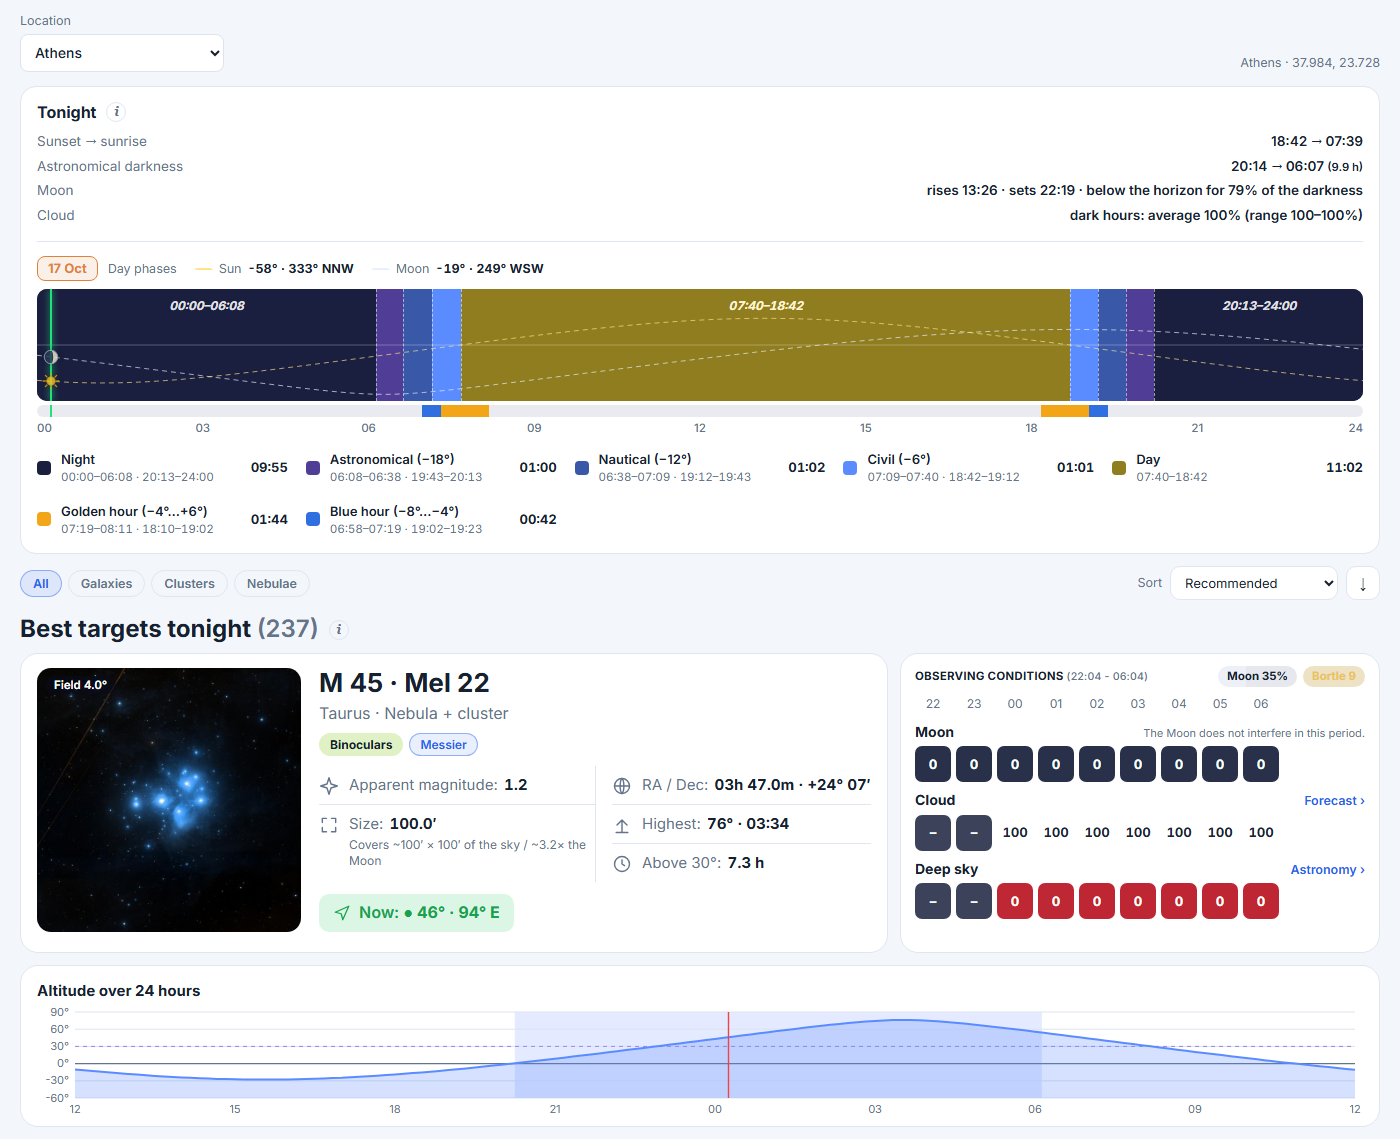
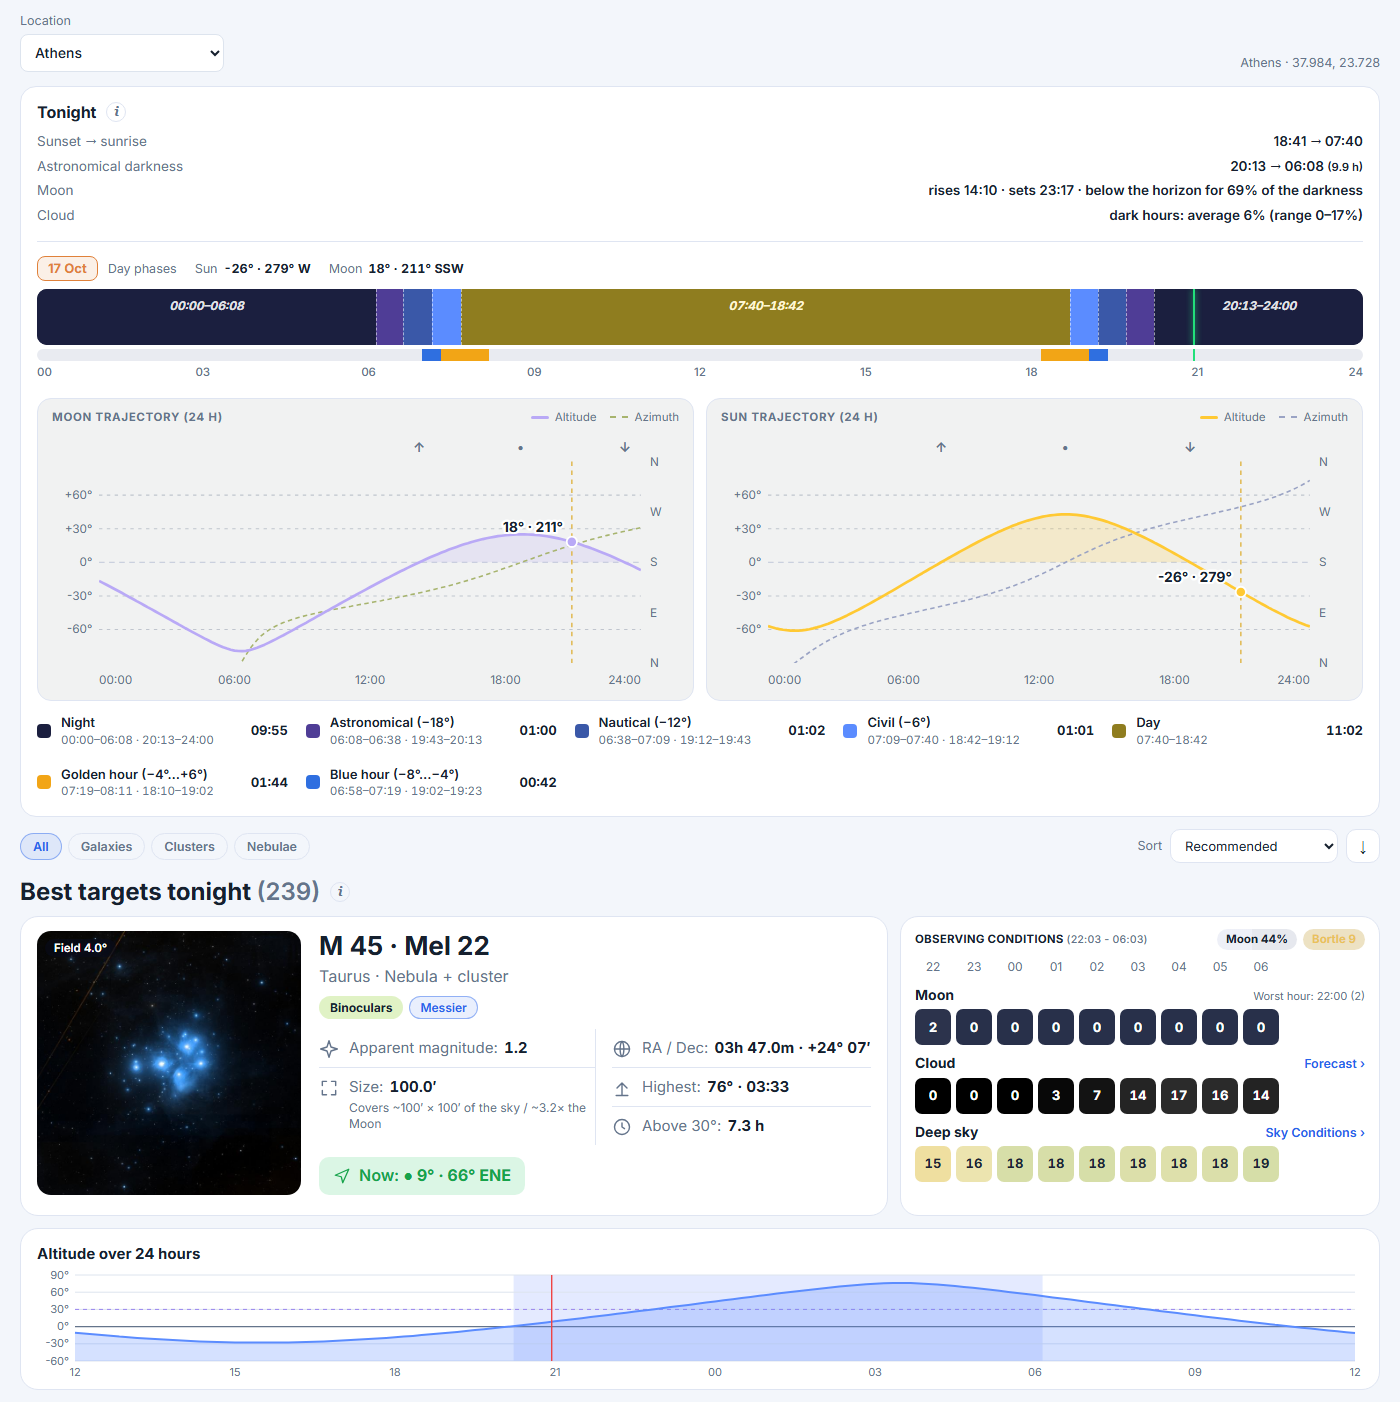
DSO Tonight: Sun and Moon trajectory charts (altitude solid, azimuth dashed, rise/transit/set marks, now label) replace the curves drawn over the phases bar

diff --git a/js/dso.js b/js/dso.js
@@ -305,34 +305,64 @@ const Dso = (() => {
       push(segs, cls(a), m); push(gsegs, gb(a), m);
     }
     const sun = [], moon = [];
-    for (let m = 0; m <= 1440; m += 10) { const k = Astro.sky(t0 + m * 60e3, loc.lat, loc.lon); sun.push([m, k.sunAlt]); moon.push([m, k.moonAlt]); }
+    for (let m = 0; m <= 1440; m += 10) { const k = Astro.sky(t0 + m * 60e3, loc.lat, loc.lon); sun.push([m, k.sunAlt, k.sunAz]); moon.push([m, k.moonAlt, k.moonAz]); }
     const nowK = Astro.sky(Date.now(), loc.lat, loc.lon);
     return { segs, gsegs, sun, moon, now: nowK, nowMin: (Date.now() - t0) / 60e3, date: ln };
   }
   const fmMin = (m) => `${String(Math.floor(m / 60)).padStart(2, '0')}:${String(Math.round(m % 60)).padStart(2, '0')}`;
+  /* Trajectory card of the Sun or the Moon for the local day: altitude (solid, shaded above the horizon), azimuth (dashed, right axis),
+     ↑ rise • transit ↓ set marks, and a "now" line with the current altitude · azimuth */
+  function trajCard(kind, d) {
+    const W = 560, H = 236, pl = 42, pr = 34, pt = 30, pb = 26, pw = W - pl - pr, ph = H - pt - pb;
+    const pts = kind === 'sun' ? d.sun : d.moon, now = kind === 'sun' ? { alt: d.now.sunAlt, az: d.now.sunAz } : { alt: d.now.moonAlt, az: d.now.moonAz };
+    const col = kind === 'sun' ? '#ffc933' : '#b9a9f6', azcol = kind === 'sun' ? '#9aa3c4' : '#a7b46e';
+    const X = (m) => pl + (m / 1440) * pw, Y = (a) => pt + ph * (1 - (clamp(a, -90, 90) + 90) / 180);
+    const hz = Y(0);
+    // azimuth drawn continuously: bottom = north (0°), east, south at the horizon line, west, top = north (360°)
+    let az0 = pts[0][2]; if (az0 > 180) az0 -= 360;
+    let prev = az0, off = 0;
+    const azs = pts.map(([m, , az]) => { let v = az + off; while (v - prev > 180) { off -= 360; v -= 360; } while (v - prev < -180) { off += 360; v += 360; } prev = v; return [m, v]; });
+    const Yaz = (az) => pt + ph * (1 - az / 360);
+    const id = 'tjc' + kind;
+    const altLine = pts.map(([m, a]) => `${X(m).toFixed(1)},${Y(a).toFixed(1)}`).join(' ');
+    const area = `${X(0).toFixed(1)},${hz.toFixed(1)} ` + pts.map(([m, a]) => `${X(m).toFixed(1)},${Math.min(Y(a), hz).toFixed(1)}`).join(' ') + ` ${X(1440).toFixed(1)},${hz.toFixed(1)}`;
+    const azLine = azs.map(([m, v]) => `${X(m).toFixed(1)},${Yaz(v).toFixed(1)}`).join(' ');
+    let g = `<defs><clipPath id="${id}"><rect x="${pl}" y="${pt}" width="${pw}" height="${ph}"/></clipPath></defs>`;
+    for (const a of [60, 30, 0, -30, -60]) g += `<line x1="${pl}" x2="${W - pr}" y1="${Y(a).toFixed(1)}" y2="${Y(a).toFixed(1)}" class="${a === 0 ? 'hz' : 'gl'}"/><text x="${pl - 6}" y="${(Y(a) + 3.5).toFixed(1)}" text-anchor="end" class="lb">${a > 0 ? '+' : ''}${a}°</text>`;
+    const dirs = LANG === 'el' ? ['Β', 'Δ', 'Ν', 'Α', 'Β'] : ['N', 'W', 'S', 'E', 'N'];
+    dirs.forEach((c, i) => { g += `<text x="${W - pr + 8}" y="${(pt + ph * (i / 4) + 3.5).toFixed(1)}" class="lb">${c}</text>`; });
+    for (const h of [0, 6, 12, 18, 24]) g += `<text x="${X(h * 60).toFixed(1)}" y="${H - 7}" text-anchor="${h === 0 ? 'start' : h === 24 ? 'end' : 'middle'}" class="lb">${String(h).padStart(2, '0')}:00</text>`;
+    g += `<g clip-path="url(#${id})"><polygon points="${area}" fill="${col}" fill-opacity=".2"/><polyline points="${azLine}" fill="none" stroke="${azcol}" stroke-width="1.4" stroke-dasharray="4 3"/><polyline points="${altLine}" fill="none" stroke="${col}" stroke-width="2.4" stroke-linejoin="round"/></g>`;
+    // rise / transit / set
+    const cross = (dir) => { for (let i = 1; i < pts.length; i++) { const a = pts[i - 1][1], b = pts[i][1]; if (dir > 0 ? a < 0 && b >= 0 : a > 0 && b <= 0) return pts[i - 1][0] + ((pts[i][0] - pts[i - 1][0]) * (0 - a)) / (b - a); } return null; };
+    const top = pts.reduce((m, q) => (q[1] > m[1] ? q : m), pts[0]);
+    const mark = (m, glyph, label) => (m == null ? '' : `<text x="${X(m).toFixed(1)}" y="${pt - 9}" text-anchor="middle" class="mk"><title>${esc(label)} ${fmMin(m)}</title>${glyph}</text>`);
+    g += mark(cross(1), '↑', t('dso.tj.rise')) + (top[1] > 0 ? mark(top[0], '•', t('dso.tj.transit')) : '') + mark(cross(-1), '↓', t('dso.tj.set'));
+    // now
+    const nx = X(clamp(d.nowMin, 0, 1440)), ny = Y(now.alt);
+    g += `<line x1="${nx.toFixed(1)}" x2="${nx.toFixed(1)}" y1="${pt}" y2="${pt + ph}" class="nw"/><circle cx="${nx.toFixed(1)}" cy="${ny.toFixed(1)}" r="4.6" fill="${col}" stroke="#fff" stroke-width="1.6"/>`;
+    const lx = nx > W - pr - 90 ? nx - 8 : nx + 8, anc = nx > W - pr - 90 ? 'end' : 'start', ly = ny < pt + 22 ? ny + 16 : ny - 9;
+    g += `<text x="${lx.toFixed(1)}" y="${ly.toFixed(1)}" text-anchor="${anc}" class="nl">${now.alt.toFixed(0)}° · ${now.az.toFixed(0)}°</text>`;
+    return `<section class="tj-card"><div class="tj-h"><b>${esc(t('dso.tj.' + kind))}</b><span class="tj-key"><i class="al" style="background:${col}"></i>${esc(t('dso.tj.alt'))}<i class="az" style="border-color:${azcol}"></i>${esc(t('dso.tj.az'))}</span></div>
+      <svg viewBox="0 0 ${W} ${H}" class="tj-svg" role="img" aria-label="${esc(t('dso.tj.' + kind))}">${g}</svg></section>`;
+  }
   function phasesHtml(loc, offSec) {
     const d = dayPhases(loc, offSec);
     const dateTxt = d.date.toLocaleDateString(dateLocale(), { day: 'numeric', month: 'short', timeZone: 'UTC' });
     const w = (g) => ((g.b - g.a) / 1440) * 100;
     const bar = d.segs.map((g, i) => `<i class="ph-${g.c}${i ? ' sep' : ''}" style="width:${w(g).toFixed(3)}%" title="${esc(t('dso.ph.' + g.c))} ${fmMin(g.a)}–${fmMin(g.b)}">${w(g) > 9 ? `<span>${fmMin(g.a)}–${fmMin(g.b)}</span>` : ''}</i>`).join('');
     const gbar = d.gsegs.map((g) => `<i class="ph-${g.c}" style="left:${((g.a / 1440) * 100).toFixed(3)}%;width:${w(g).toFixed(3)}%" title="${esc(t('dso.ph.' + g.c))} ${fmMin(g.a)}–${fmMin(g.b)}"></i>`).join('');
-    // trajectories drawn over the bar: the whole altitude range -90°..+90° (nothing is clipped), the solid line is the horizon
-    const VB_W = 1440, VB_H = 180, yv = (a) => ((90 - clamp(a, -90, 90)) / 180) * VB_H;
-    const line = (pts) => pts.map(([m, a]) => `${m},${yv(a).toFixed(1)}`).join(' ');
-    const curves = `<svg class="dp-curves" viewBox="0 0 ${VB_W} ${VB_H}" preserveAspectRatio="none" aria-hidden="true"><line x1="0" x2="${VB_W}" y1="${yv(0)}" y2="${yv(0)}" class="hz"/><polyline points="${line(d.moon)}" class="mo"/><polyline points="${line(d.sun)}" class="su"/></svg>`;
-    const dotTop = (a) => `${((yv(a) / VB_H) * 100).toFixed(1)}%`, dotLeft = `${clamp((d.nowMin / 1440) * 100, 0, 100).toFixed(2)}%`;
     const bodyPos = (alt, az) => `${alt.toFixed(0)}° · ${az.toFixed(0)}° ${Astro.compass(az)}`;     // altitude · azimuth direction
-    const ico = (svg, a) => `<b class="dp-ico${a > 0 ? '' : ' below'}" style="left:${dotLeft};top:${dotTop(a)}">${svg}</b>`;
-    const dots = ico(Astro.moonIcon(d.now.phase, loc.lat, 18), d.now.moonAlt) + ico(Astro.sunIcon(), d.now.sunAlt);   // Moon with its phase, Sun with rays
     const axis = [0, 3, 6, 9, 12, 15, 18, 21, 24].map((h) => `<b style="left:${((h / 24) * 100).toFixed(2)}%">${String(h).padStart(2, '0')}</b>`).join('');
     const leg = (c, arr) => {
       const parts = arr.filter((g) => g.c === c), total = parts.reduce((a, g) => a + (g.b - g.a), 0);
       return `<li><i class="dot ph-${c}"></i><div><b>${esc(t('dso.ph.' + c))}</b><span class="rg">${parts.length ? parts.map((g) => `${fmMin(g.a)}–${fmMin(g.b)}`).join(' · ') : '–'}</span></div><span class="tot">${total ? fmMin(total) : '–'}</span></li>`;
     };
-    return `<div class="dp"><div class="dp-h"><span class="dp-date">${esc(dateTxt)}</span><small>${esc(t('dso.ph.title'))}</small><span class="dp-key"><span class="k"><i class="su"></i>${esc(t('dso.ph.sun'))} <b>${bodyPos(d.now.sunAlt, d.now.sunAz)}</b></span><span class="k"><i class="mo"></i>${esc(t('dso.ph.moon'))} <b>${bodyPos(d.now.moonAlt, d.now.moonAz)}</b></span></span></div>
-      <div class="dp-bar">${bar}${curves}${dots}<u class="now" style="left:${clamp((d.nowMin / 1440) * 100, 0, 100).toFixed(2)}%"></u></div>
+    return `<div class="dp"><div class="dp-h"><span class="dp-date">${esc(dateTxt)}</span><small>${esc(t('dso.ph.title'))}</small><span class="dp-key"><span class="k">${esc(t('dso.ph.sun'))} <b>${bodyPos(d.now.sunAlt, d.now.sunAz)}</b></span><span class="k">${esc(t('dso.ph.moon'))} <b>${bodyPos(d.now.moonAlt, d.now.moonAz)}</b></span></span></div>
+      <div class="dp-bar">${bar}<u class="now" style="left:${clamp((d.nowMin / 1440) * 100, 0, 100).toFixed(2)}%"></u></div>
       <div class="dp-gb">${gbar}<u class="now" style="left:${clamp((d.nowMin / 1440) * 100, 0, 100).toFixed(2)}%"></u></div>
       <div class="dp-axis">${axis}</div>
+      <div class="tj-grid">${trajCard('moon', d)}${trajCard('sun', d)}</div>
       <ul class="dp-leg">${PH_ORDER.map((c) => leg(c, d.segs)).join('')}${leg('golden', d.gsegs)}${leg('blue', d.gsegs)}</ul></div>`;
   }
 

diff --git a/js/i18n.js b/js/i18n.js
@@ -18,6 +18,7 @@ const I18N = {
     'dso.wx.title': 'Observing conditions', 'dso.wx.moon': 'Moon {p}%', 'dso.wx.deep': 'Deep sky', 'dso.d.cov': 'Covers ~{a}′ × {b}′ of the sky', 'dso.d.covm': ' / ~{n}× the Moon',
     'dso.ph.title': 'Day phases', 'dso.ph.night': 'Night', 'dso.ph.astro': 'Astronomical (−18°)', 'dso.ph.naut': 'Nautical (−12°)', 'dso.ph.civil': 'Civil (−6°)', 'dso.ph.day': 'Day', 'dso.ph.sun': 'Sun', 'dso.ph.moon': 'Moon', 'dso.ph.golden': 'Golden hour (−4°…+6°)', 'dso.ph.blue': 'Blue hour (−8°…−4°)',
     'dso.sort': 'Sort', 'dso.sort.score': 'Recommended', 'dso.sort.now': 'Altitude right now', 'dso.sort.alt': 'Peak altitude tonight', 'dso.sort.size': 'Size', 'dso.sort.mag': 'Apparent magnitude', 'dso.sort.rev': 'Reverse order', 'dso.sort.help': 'Recommended = effective magnitude with a bonus for altitude. Altitude right now = how high the object is at this moment. Peak altitude tonight = the highest it gets during the darkness. Size = largest dimension, apparent magnitude = brightest first. The arrow reverses the order.',
+    'dso.tj.moon': 'Moon trajectory (24 h)', 'dso.tj.sun': 'Sun trajectory (24 h)', 'dso.tj.alt': 'Altitude', 'dso.tj.az': 'Azimuth', 'dso.tj.rise': 'Rise', 'dso.tj.transit': 'Highest', 'dso.tj.set': 'Set',
     'dso.tab.catalog': 'Catalogue', 'dso.tab.tonight': 'Tonight', 'dso.back': '← Back', 'dso.loaderr': 'Could not load the object catalogue.',
     'dso.search': 'Search name or constellation…', 'dso.chip.m': 'Messier', 'dso.chip.c': 'Caldwell', 'dso.chip.best': 'Best NGC', 'dso.chip.h4': 'Herschel 400',
     'dso.sort.main': 'Main name', 'dso.sort.second': 'Other name', 'dso.sort.con': 'Constellation', 'dso.count': '{n} objects',
@@ -245,6 +246,7 @@ const I18N = {
     'dso.wx.title': 'Συνθήκες παρατήρησης', 'dso.wx.moon': 'Σελήνη {p}%', 'dso.wx.deep': 'Βαθύς ουρανός', 'dso.d.cov': 'Καλύπτει ~{a}′ × {b}′ του ουρανού', 'dso.d.covm': ' / ~{n}× τη Σελήνη',
     'dso.ph.title': 'Φάσεις ημέρας', 'dso.ph.night': 'Νύχτα', 'dso.ph.astro': 'Αστρονομικό (−18°)', 'dso.ph.naut': 'Ναυτικό (−12°)', 'dso.ph.civil': 'Πολιτικό (−6°)', 'dso.ph.day': 'Ημέρα', 'dso.ph.sun': 'Ήλιος', 'dso.ph.moon': 'Σελήνη', 'dso.ph.golden': 'Χρυσή ώρα (−4°…+6°)', 'dso.ph.blue': 'Μπλε ώρα (−8°…−4°)',
     'dso.sort': 'Ταξινόμηση', 'dso.sort.score': 'Προτεινόμενα', 'dso.sort.now': 'Ύψος αυτή τη στιγμή', 'dso.sort.alt': 'Μέγιστο ύψος απόψε', 'dso.sort.size': 'Διαστάσεις', 'dso.sort.mag': 'Φαινόμενη λαμπρότητα', 'dso.sort.rev': 'Αντίστροφη σειρά', 'dso.sort.help': 'Προτεινόμενα = ενεργό μέγεθος με μπόνους για το ύψος. Ύψος αυτή τη στιγμή = πόσο ψηλά βρίσκεται το αντικείμενο τώρα. Μέγιστο ύψος απόψε = το ψηλότερο σημείο που φτάνει μέσα στο σκοτάδι. Διαστάσεις = η μεγαλύτερη διάσταση, φαινόμενη λαμπρότητα = πρώτα τα φωτεινότερα. Το βελάκι αντιστρέφει τη σειρά.',
+    'dso.tj.moon': 'Τροχιά Σελήνης (24ωρο)', 'dso.tj.sun': 'Τροχιά Ηλίου (24ωρο)', 'dso.tj.alt': 'Ύψος', 'dso.tj.az': 'Αζιμούθιο', 'dso.tj.rise': 'Ανατολή', 'dso.tj.transit': 'Μέγιστο ύψος', 'dso.tj.set': 'Δύση',
     'dso.tab.catalog': 'Κατάλογος', 'dso.tab.tonight': 'Απόψε', 'dso.back': '← Πίσω', 'dso.loaderr': 'Δεν φορτώθηκε ο κατάλογος αντικειμένων.',
     'dso.search': 'Αναζήτηση ονόματος ή αστερισμού…', 'dso.chip.m': 'Messier', 'dso.chip.c': 'Caldwell', 'dso.chip.best': 'Best NGC', 'dso.chip.h4': 'Herschel 400',
     'dso.sort.main': 'Κύριο όνομα', 'dso.sort.second': 'Δευτερεύον όνομα', 'dso.sort.con': 'Αστερισμός', 'dso.count': '{n} αντικείμενα',

diff --git a/css/style.css b/css/style.css
@@ -953,3 +953,20 @@ select, input[type=text], input[type=number], input[type=search] { font: inherit
 :root[data-theme="dark"] #view-dso .seg2 button.on { color: #fff; }
 
 .ss-obs { grid-column: 1 / -1; font-size: 11.5px; color: var(--muted); padding-top: 4px; border-top: 1px dashed var(--line); } .ss-obs b { color: var(--text); font-weight: 600; }
+
+/* Day phases: a plain colour bar; the Sun and Moon trajectories are two charts (altitude solid, azimuth dashed) underneath */
+.dp-bar { height: 56px; }
+.tj-grid { display: grid; grid-template-columns: 1fr 1fr; gap: 12px; margin-top: 16px; }
+.tj-card { border: 1px solid var(--d-line); border-radius: 14px; background: color-mix(in srgb, var(--d-card) 70%, #000 30%); padding: 10px 14px 8px; min-width: 0; }
+.tj-h { display: flex; align-items: center; justify-content: space-between; gap: 10px; margin-bottom: 2px; }
+.tj-h > b { font-size: 11.5px; letter-spacing: .06em; text-transform: uppercase; color: var(--d-muted); font-weight: 700; }
+.tj-key { display: inline-flex; align-items: center; gap: 6px; font-size: 11.5px; color: var(--d-muted); } .tj-key i { display: inline-block; width: 18px; margin-left: 8px; } .tj-key i:first-child { margin-left: 0; }
+.tj-key i.al { height: 2.5px; border-radius: 2px; } .tj-key i.az { height: 0; border-top: 2px dashed; }
+.tj-svg { display: block; width: 100%; height: auto; }
+.tj-svg .gl { stroke: rgba(150, 160, 190, .22); stroke-width: 1; stroke-dasharray: 3 4; } .tj-svg .hz { stroke: rgba(170, 180, 205, .55); stroke-width: 1; stroke-dasharray: 5 4; }
+.tj-svg .lb { fill: var(--d-muted); font-size: 10.5px; } .tj-svg .mk { fill: var(--d-muted); font-size: 12px; font-weight: 700; }
+.tj-svg .nw { stroke: #e0b64a; stroke-width: 1.3; stroke-dasharray: 4 4; }
+.tj-svg .nl { fill: var(--d-text); font-size: 12.5px; font-weight: 800; paint-order: stroke; stroke: var(--d-card); stroke-width: 3.5px; stroke-linejoin: round; }
+@media (max-width: 900px) { .tj-grid { grid-template-columns: 1fr; } }
+.tj-card { background: color-mix(in srgb, var(--d-card) 94%, var(--d-text) 6%); }
+.tj-svg .gl { stroke: color-mix(in srgb, var(--d-muted) 35%, transparent); }

diff --git a/index.html b/index.html
@@ -9,7 +9,7 @@
 <link rel="preconnect" href="https://fonts.googleapis.com"><link rel="preconnect" href="https://fonts.gstatic.com" crossorigin>
 <link rel="stylesheet" href="https://fonts.googleapis.com/css2?family=Inter:wght@400;500;600;700&display=swap&subset=greek">
 <link rel="stylesheet" href="https://unpkg.com/leaflet@1.9.4/dist/leaflet.css">
-<link rel="stylesheet" href="css/style.css?v=20261124">
+<link rel="stylesheet" href="css/style.css?v=20261126">
 </head>
 <body>
 <header class="topbar">
@@ -252,11 +252,11 @@
 <footer data-i18n-html="footer.html"></footer>
 
 <script src="https://unpkg.com/leaflet@1.9.4/dist/leaflet.js"></script>
-<script src="js/i18n.js?v=20261124"></script>
-<script src="js/icons.js?v=20261124"></script>
-<script src="js/app.js?v=20261124"></script>
-<script src="js/astro.js?v=20261124"></script>
-<script src="js/sunset.js?v=20261124"></script>
-<script src="js/dso.js?v=20261124"></script>
+<script src="js/i18n.js?v=20261126"></script>
+<script src="js/icons.js?v=20261126"></script>
+<script src="js/app.js?v=20261126"></script>
+<script src="js/astro.js?v=20261126"></script>
+<script src="js/sunset.js?v=20261126"></script>
+<script src="js/dso.js?v=20261126"></script>
 </body>
 </html>
